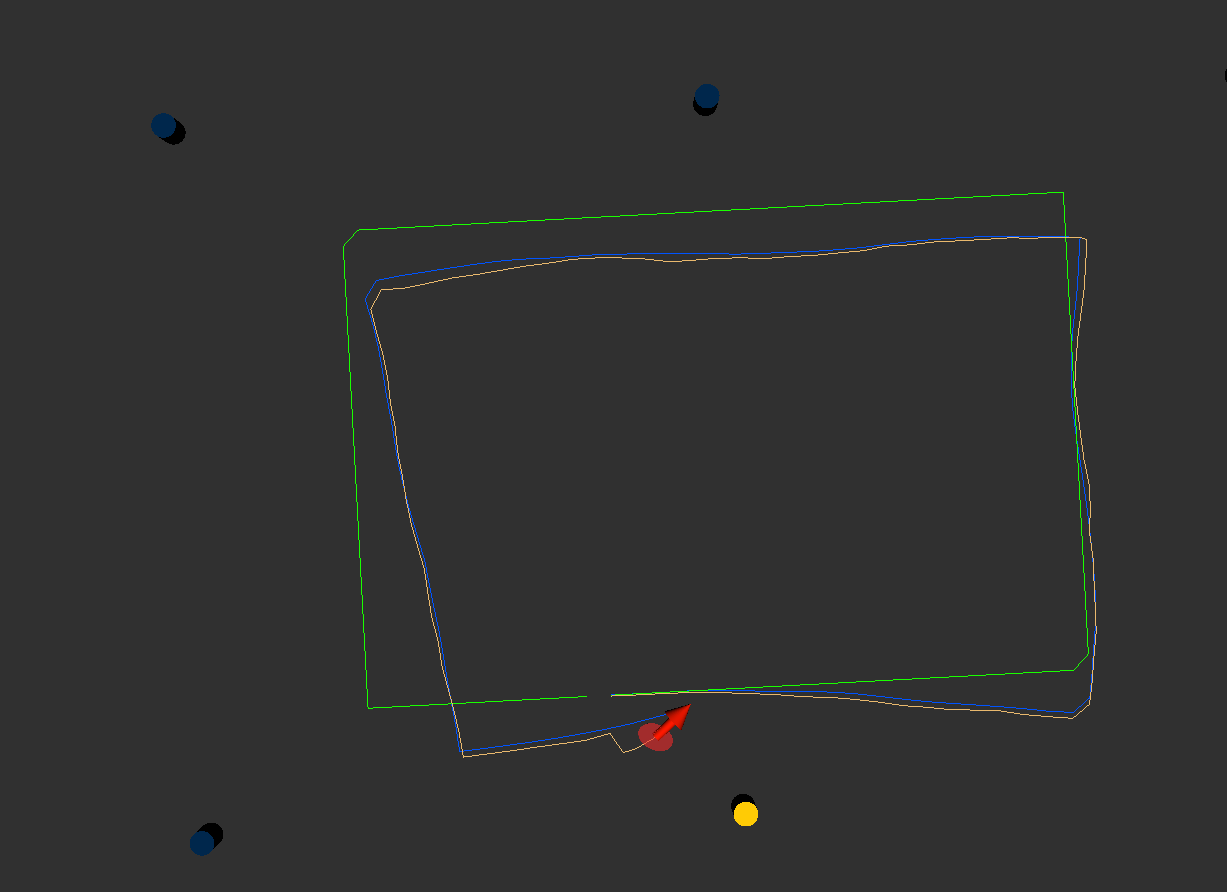
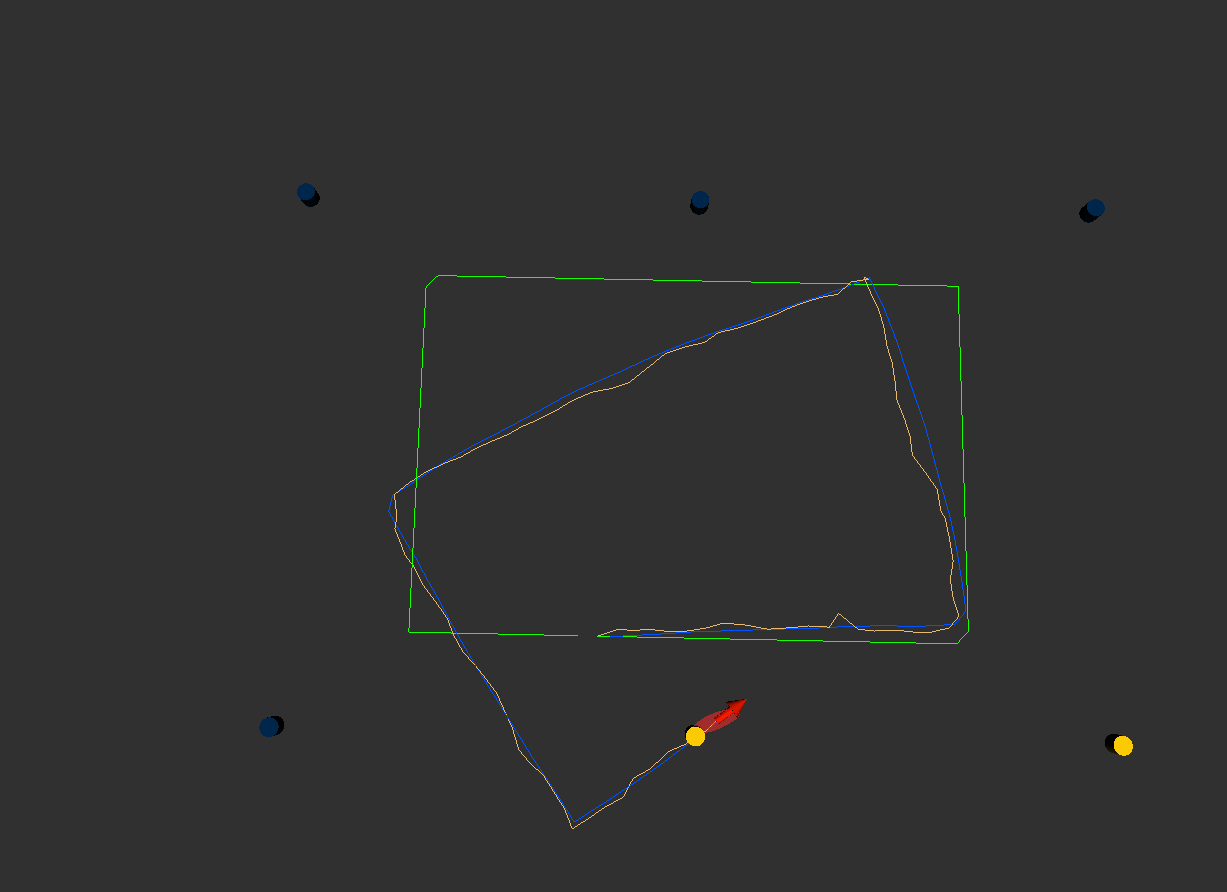
complete hw5 but there are still some problems with UKF

diff --git a/homework-05/HW5_codes_python/HW5_codes_python/filter/UKF.py b/homework-05/HW5_codes_python/HW5_codes_python/filter/UKF.py
@@ -29,8 +29,7 @@ class UKF:
         self.state_.setState(init.mu)
         self.state_.setCovariance(init.Sigma)
 
-
-
+    
     def prediction(self, u):
         # prior belief
         X = self.state_.getState()
@@ -41,7 +40,23 @@ class UKF:
         # Hint: save your predicted state and cov as X_pred and P_pred                #
         ###############################################################################
         
+        # propagate the input Gaussian using an unscented transform
+        self.sigma_point(X, P, self.kappa_g)
+        X_sigma_points = []
+        X_sigma_point_mean = 0
+        for i in range(2*self.n + 1):
+            X_sigma_point = self.gfun(self.X[:, i], u)
+            X_sigma_points.append(X_sigma_point)
+            X_sigma_point_mean += self.w[i] * X_sigma_point
 
+        X_sigma_points = (np.array(X_sigma_points).reshape([2*self.n+1, -1])).T
+        temp = X_sigma_points - X_sigma_point_mean.reshape(self.n, 1)
+        X_Cov = np.dot(np.dot(temp, np.diag(self.w)), temp.T)
+
+        X_pred = X_sigma_point_mean
+        P_pred = X_Cov
+
+   
         ###############################################################################
         #                         END OF YOUR CODE                                    #
         ###############################################################################
@@ -66,7 +81,38 @@ class UKF:
         #       landmark, and landmark1.getPosition()[1] to get its y position        #
         ###############################################################################
 
+        z = np.hstack((z[:2], z[3:5]))
+        Q = np.zeros((self.Q.shape[0]*2, self.Q.shape[1]*2))
+        Q[:2, :2] = self.Q
+        Q[2:, 2:] = self.Q
+
+
+        self.sigma_point(X_predict, P_predict, self.kappa_g)
+        Z_hats = []
+        Z_hat_mean = 0
+        for i in range(2*self.n + 1):
+            Z1_hat = self.hfun(landmark1.getPosition()[0], landmark1.getPosition()[1], self.X[:, i])
+            Z2_hat = self.hfun(landmark2.getPosition()[0], landmark2.getPosition()[1], self.X[:, i])
+            Z_hat = np.hstack((Z1_hat, Z2_hat))
+            Z_hats.append(Z_hat)
+            Z_hat_mean += self.w[i] * Z_hat
+
+        Z_hats = (np.array(Z_hats).reshape([2*self.n+1, -1])).T
+        temp = Z_hats - np.expand_dims(Z_hat_mean, axis=1)
+
+        # innovation covariance
+        S = np.dot(np.dot(temp, np.diag(self.w)), temp.T) + Q
+
+        # compute state-measurement cross covariance
+        Cov_xz = np.dot(np.dot(self.X - np.expand_dims(X_predict, axis=1), np.diag(self.w)), (Z_hats - np.expand_dims(Z_hat_mean, axis=1)).T)
+
+        # filter gain
+        K = np.dot(Cov_xz, np.linalg.inv(S))  
         
+        # correct the predicted state statistics
+        X = X_predict + K @ (z - Z_hat_mean)
+        P = P_predict - K @ S @ K.T
+
         ###############################################################################
         #                         END OF YOUR CODE                                    #
         ###############################################################################
@@ -76,9 +122,11 @@ class UKF:
         self.state_.setCovariance(P)
 
     def sigma_point(self, mean, cov, kappa):
+        
         self.n = len(mean) # dim of state
+        mean = mean.reshape((self.n, 1))
         L = np.sqrt(self.n + kappa) * np.linalg.cholesky(cov)
-        Y = mean.repeat(len(mean), axis=1)
+        Y = mean.repeat(len(mean), axis=-1)
         self.X = np.hstack((mean, Y+L, Y-L))
         self.w = np.zeros([2 * self.n + 1, 1])
         self.w[0] = kappa / (self.n + kappa)

diff --git a/homework-05/HW5_codes_python/HW5_codes_python/filter/PF.py b/homework-05/HW5_codes_python/HW5_codes_python/filter/PF.py
@@ -32,7 +32,7 @@ class PF:
         self.Sigma = init.Sigma
         self.particles = init.particles
         self.particle_weight = init.particle_weight
-
+        self.Neff = 1/np.sum(np.power(self.particle_weight, 2))
         
         self.state_ = RobotState()
         self.state_.setState(init.mu)
@@ -46,8 +46,15 @@ class PF:
         # Hint: Use rng.standard_normal instead of np.random.randn.                   #
         #       It is statistically more random.                                      #
         ###############################################################################
-        pass
+        
+        # sample noise
+        LM = np.linalg.cholesky(self.M(u)) # cholesky on a diagonal matrix just sqrt its diagonal elements
+        particles = np.zeros(self.particles.T.shape)
+        for i in range(self.n):
+            wi = np.dot(LM, rng.standard_normal(3)) # noise sample
+            particles[i] = self.gfun(self.particles.T[i], u) + wi
 
+        self.particles = particles.T
         ###############################################################################
         #                         END OF YOUR CODE                                    #
         ###############################################################################
@@ -64,7 +71,26 @@ class PF:
         #       landmark, and landmark1.getPosition()[1] to get its y position        #
         ###############################################################################
 
+        z = np.hstack((z[:2], z[3:5]))
+        w = np.zeros(self.n) # important weight
+        Q = np.zeros((self.Q.shape[0]*2, self.Q.shape[1]*2))
+        Q[:2, :2] = self.Q
+        Q[2:, 2:] = self.Q
+
+        for i in range(self.n):
+
+            z1_hat = self.hfun(landmark1.getPosition()[0], landmark1.getPosition()[1], self.particles.T[i])
+            z2_hat = self.hfun(landmark2.getPosition()[0], landmark2.getPosition()[1], self.particles.T[i])
+            z_hat = np.hstack((z1_hat, z2_hat))
+            w[i] = multivariate_normal.pdf(z, z_hat, Q)
+
         
+        self.particle_weight = np.multiply(self.particle_weight, w)
+        self.particle_weight = self.particle_weight / np.sum(self.particle_weight)
+        self.Neff = 1/np.sum(np.power(self.particle_weight, 2))
+
+        if self.Neff < self.n / 5:
+            self.resample()
         ###############################################################################
         #                         END OF YOUR CODE                                    #
         ###############################################################################

diff --git a/homework-03/hw3_EKF.py b/homework-03/hw3_EKF.py
@@ -199,7 +199,7 @@ if __name__ == "__main__":
         plt.xlabel(r'$t$')
         plt.ylabel(r'$altitude$')
         plt.savefig(save_name+".png")
-        plt.show()
+        # plt.show()
     
 
    
@@ -220,9 +220,9 @@ if __name__ == "__main__":
     # print('Particle_filter with z2, mu=(%f, %f, %f) ' % (trajectories[-1][0], trajectories[-1][1], trajectories[-1][2]))
     # visualization(np.vstack((trajectories_with_z1, trajectories_with_z2)), "PF with z1 followed by z2")    
     
-    # copy_samples, trajectories = Particle_filter(copy_samples, z_set, Sigma_v12, h12)
-    # print('Particle_filter with z12, mu=(%f, %f, %f) ' % (trajectories[-1][0], trajectories[-1][1], trajectories[-1][2]))
-    # visualization(trajectories, "PF with z1 stacking with z2")
+    copy_samples, trajectories = Particle_filter(copy_samples, z_set, Sigma_v12, h12)
+    print('Particle_filter with z12, mu=(%f, %f, %f) ' % (trajectories[-1][0], trajectories[-1][1], trajectories[-1][2]))
+    visualization(trajectories, "PF with z1 stacking with z2")
 
 
     print('end')

diff --git a/homework-05/HW5_codes_python/HW5_codes_python/utils/filter_initialization.py b/homework-05/HW5_codes_python/HW5_codes_python/utils/filter_initialization.py
@@ -13,8 +13,8 @@ def Gfun(mu,u):
 
     if u[1] == 0:
 
-        output = np.array([[1,0,(u[0]*np.cos(mu[2]+u[1]))/u[1]-(u[0]*np.cos(mu[2]))/u[1]],\
-                            [0,1,(u[0]*np.sin(mu[2]+u[1]))/u[1]-(u[0]*np.sin(mu[2]))/u[1]],\
+        output = np.array([[1,0,-u[0]*np.sin(mu[2])],\
+                            [0,1,u[0]*np.cos(mu[2])],\
                             [0,0,1]])
         
     else:
@@ -23,6 +23,18 @@ def Gfun(mu,u):
                             [0,1,(u[0]*np.sin(mu[2]+u[1]))/u[1]-(u[0]*np.sin(mu[2]))/u[1]],\
                             [0,0,1]])
     return output
+
+
+# def Gfun(mu,u):
+
+    
+
+#     output = np.array([ [1,0,0],\
+#                         [0,1,0],\
+#                         [0,0,1]])
+        
+ 
+#     return output
 
 def Vfun(mu,u):
     output = np.array([[np.sin(mu[2]+u[1])/u[1]-np.sin(mu[2])/u[1], (u[0]*np.cos(mu[2]+u[1]))/u[1]-(u[0]*np.sin(mu[2]+u[1]))/(u[1]**2)+(u[0]*np.sin(mu[2]))/(u[1]**2), 0],\

diff --git a/homework-05/HW5_codes_python/HW5_codes_python/utils/system_initialization.py b/homework-05/HW5_codes_python/HW5_codes_python/utils/system_initialization.py
@@ -12,8 +12,8 @@ def gfun(mu, u):
     output = np.zeros(3)
 
     if u[1]==0:
-        output[0] = mu[0] + np.cos(u[2])*u[0]
-        output[1] = mu[1] + np.sin(u[2])*u[0]
+        output[0] = mu[0] + np.cos(mu[2])*u[0]
+        output[1] = mu[1] + np.sin(mu[2])*u[0]
         output[2] = mu[2] + u[1] + u[2]
 
     else:
@@ -23,6 +23,18 @@ def gfun(mu, u):
         output[2] = mu[2] + u[1] + u[2]
         
     return output
+
+
+# def gfun(mu, u):
+
+#     output = np.zeros(3)
+
+#     if u[1]==0:
+#         output[0] = mu[0] 
+#         output[1] = mu[1] 
+#         output[2] = mu[2] 
+        
+#     return output
 
 def hfun(landmark_x, landmark_y, mu_pred):
     output = np.zeros(2)
